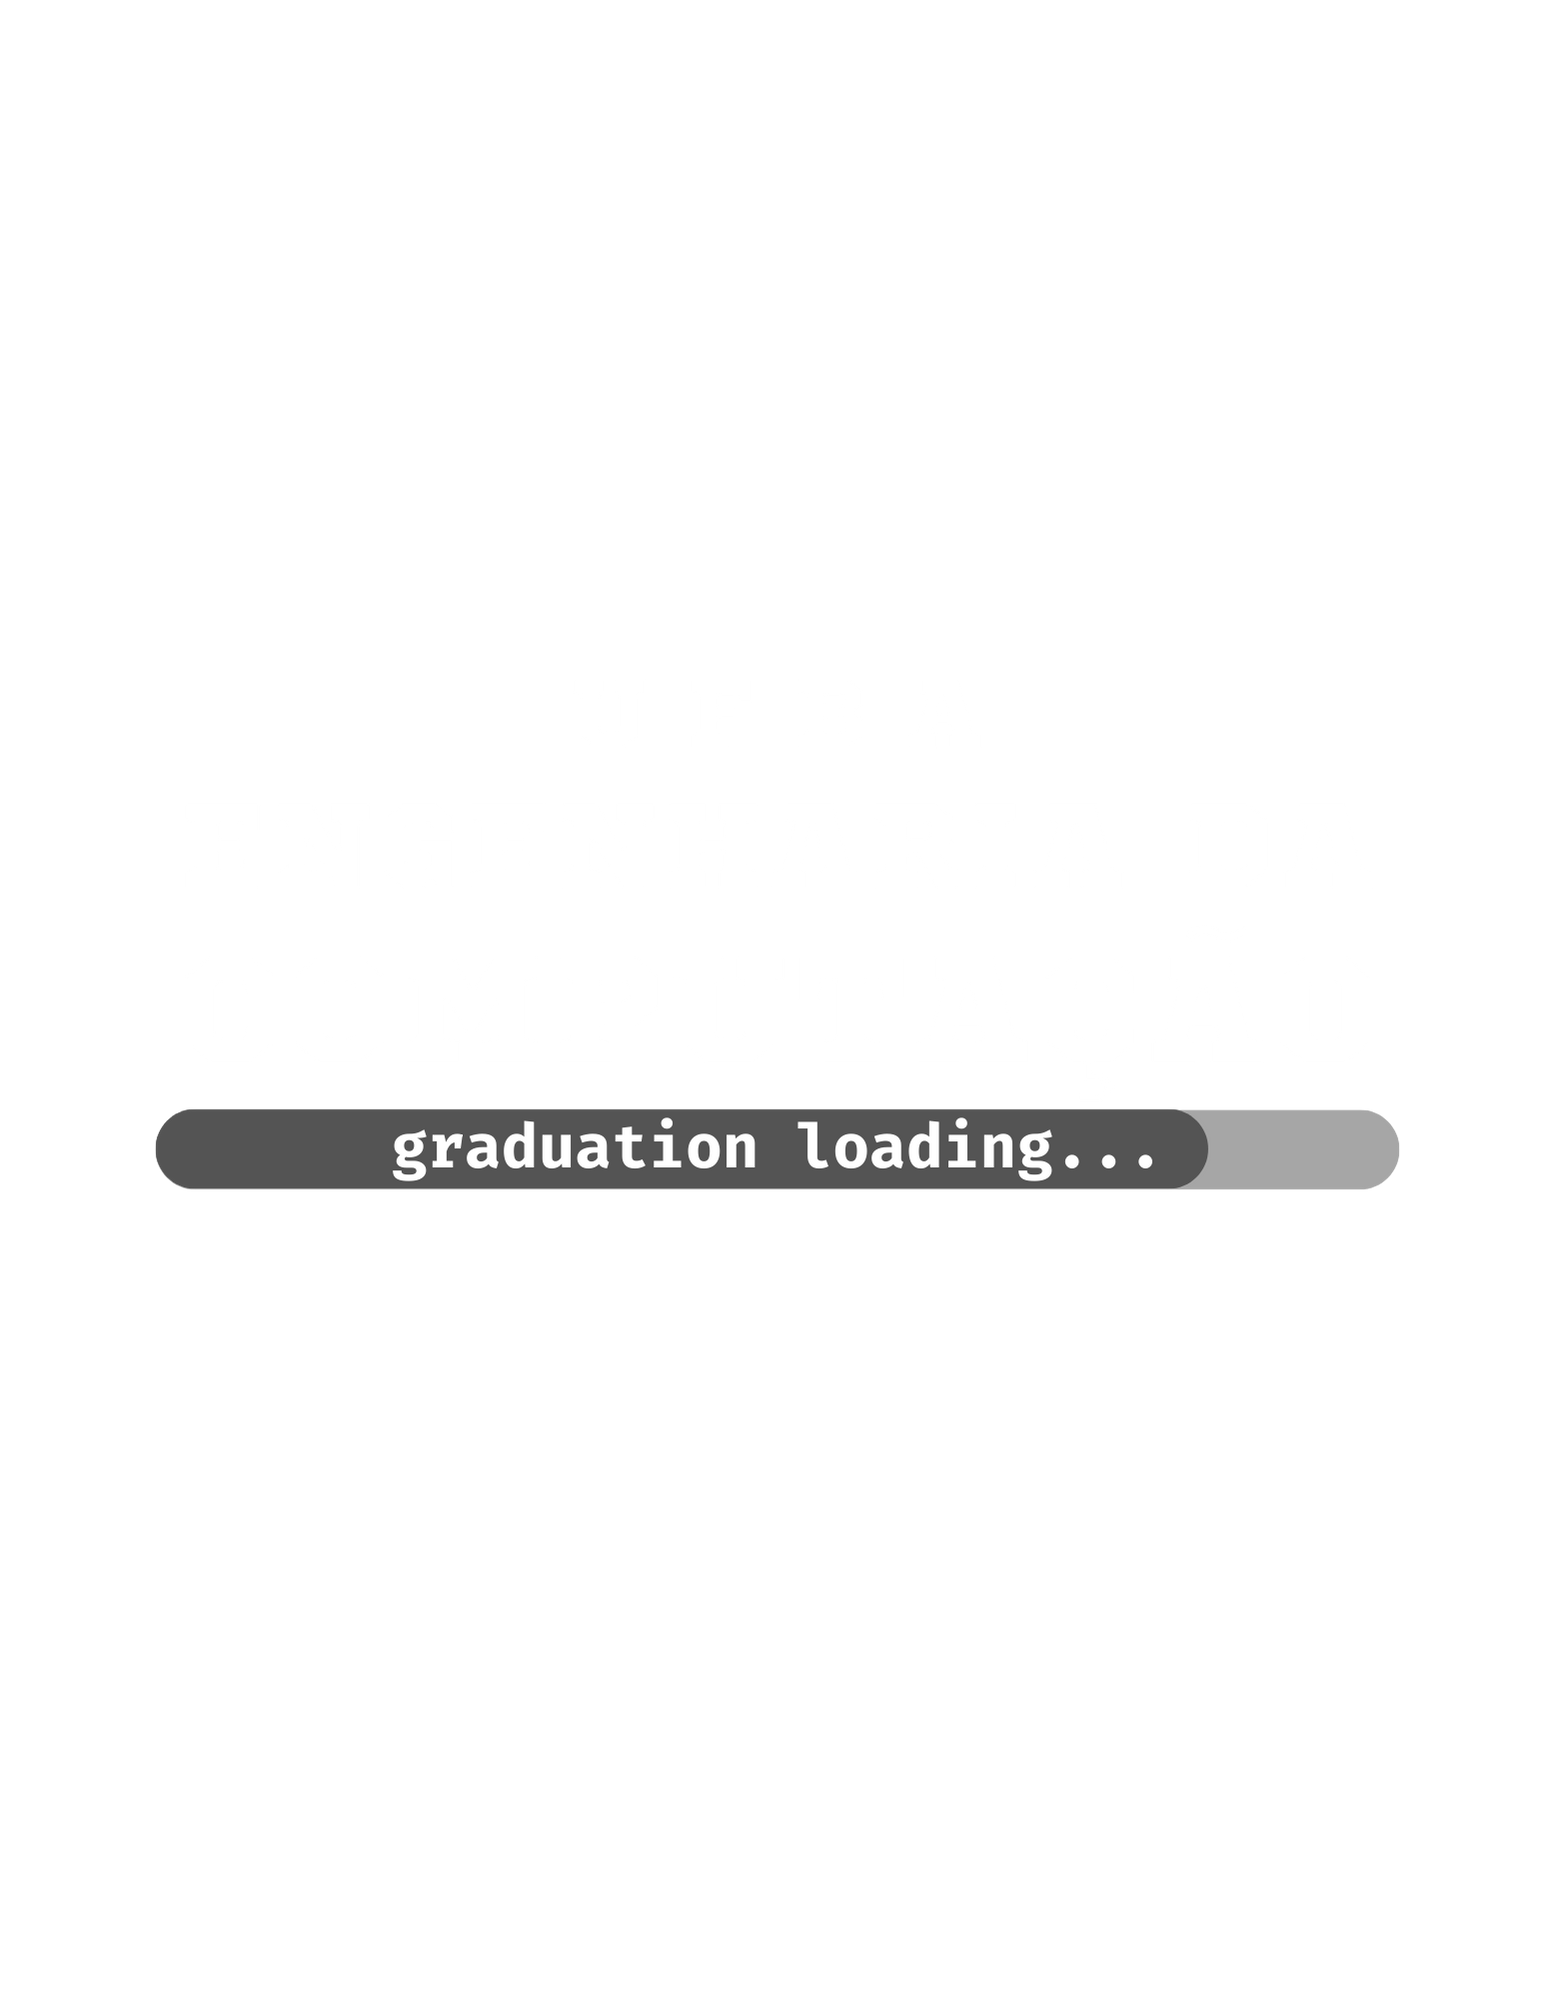
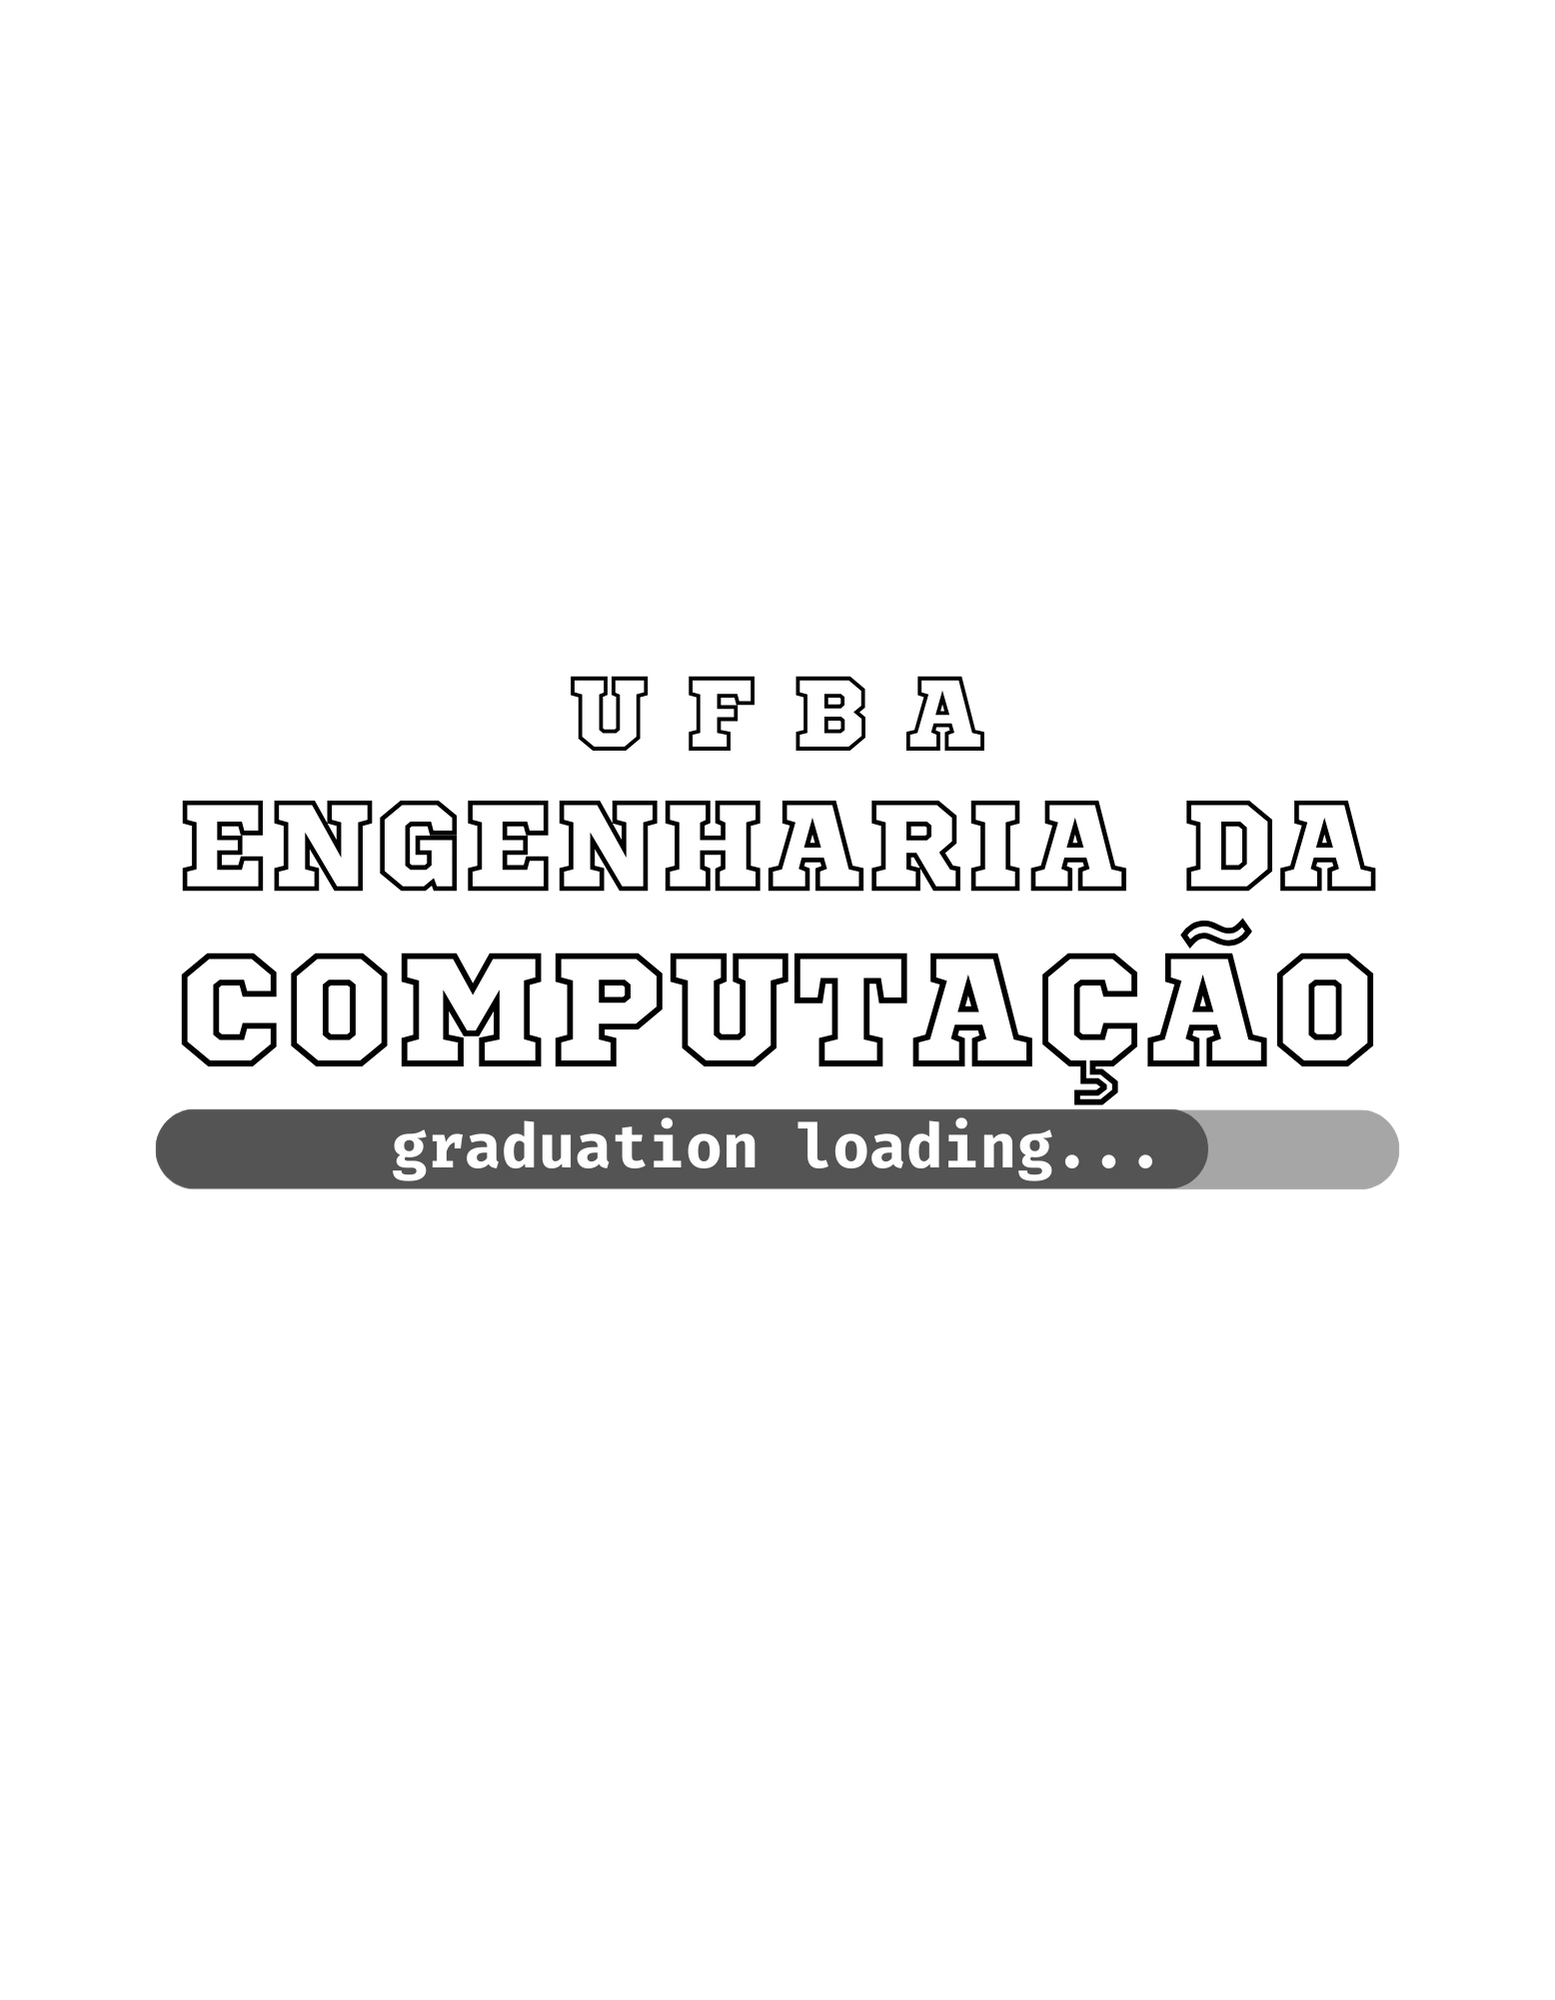
fix mobile and add program art

Changed region(s): [[0.0926, 0.341, 0.8952, 0.558]]

diff --git a/src/App.tsx b/src/App.tsx
@@ -1,10 +1,10 @@
 import * as ToggleGroup from "@radix-ui/react-toggle-group";
+import clsx from "clsx";
 import { useState } from "react";
 import Select, { SingleValue } from "react-select";
 import { TShirt } from "./components/TShirt";
 import { Item, allArts } from "./utils/allArts";
 import { allColors } from "./utils/allColors";
-import clsx from "clsx";
 
 function App() {
   const [art, setArt] = useState<string | undefined>(undefined);
@@ -15,29 +15,48 @@ function App() {
   }
 
   function handleColorChange(color: string) {
-    if (color)
-      setColor(JSON.parse(color).color);
+    if (color) setColor(JSON.parse(color).color);
   }
 
   return (
-    <div className="bg-slate-950 h-screen flex items-center justify-center">
-      <div className="max-w-3xl p-12 flex items-center justify-center">
+    <div className="bg-slate-950 min-h-screen flex items-center justify-center">
+      <div className="max-w-3xl max-sm:w-full sm:p-12 flex items-center justify-center">
         <div className="bg-slate-900/50 w-full flex flex-col gap-4 items-center justify-center rounded-md p-12">
-          
-          <div className={clsx("bg-slate-900 w-full text-slate-400 rounded-md overflow-hidden", {
-            "h-96 flex items-center justify-center text-center": !art || !color,
-          })}>
-            {art && color ? <TShirt color={color} artUrl={art} /> : <p>Selecione para <br /> pré-visualização...</p>}
+          <div
+            className={clsx(
+              "bg-slate-900 w-full text-slate-400 rounded-md overflow-hidden",
+              {
+                "h-96 flex items-center justify-center text-center":
+                  !art || !color,
+              }
+            )}
+          >
+            {art && color ? (
+              <TShirt color={color} artUrl={art} />
+            ) : (
+              <p className="px-6">Selecione para pré-visualização...</p>
+            )}
           </div>
-          <Select onChange={handleSelected} options={allArts} className="w-full" />
-          <ToggleGroup.Root type="single" className="grid grid-flow-row grid-cols-2 gap-3 w-full" onValueChange={handleColorChange}>
+          <Select
+            onChange={handleSelected}
+            options={allArts}
+            className="w-full"
+          />
+          <ToggleGroup.Root
+            type="single"
+            className="grid grid-flow-row grid-cols-2 gap-2 w-full rounded-md"
+            onValueChange={handleColorChange}
+          >
             {allColors.map((color) => (
-              <ToggleGroup.Item value={JSON.stringify(color)} key={color.value} className="data-[state=on]:bg-rose-600 w-full flex items-center gap-4 bg-slate-900 rounded-md p-2">
-                <div
-                  className="w-8 h-8 rounded-full bg-white border"
-                  style={{ backgroundColor: color.color }}
-                />
-                <p className="text-white">{color.label}</p>
+              <ToggleGroup.Item
+                value={JSON.stringify(color)}
+                key={color.color}
+                className="group h-12 data-[state=on]:bg-rose-600 w-full flex items-center justify-center text-white gap-2 bg-slate-900 rounded-md py-2 px-4 relative border"
+                style={{ backgroundColor: color.color }}
+              >
+                <div className="absolute w-full h-full bg-black/50 rounded-md hidden group-data-[state=on]:flex items-center justify-center">
+                  <p>{color.label}</p>
+                </div>
               </ToggleGroup.Item>
             ))}
           </ToggleGroup.Root>

diff --git a/src/utils/allColors.ts b/src/utils/allColors.ts
@@ -1,37 +1,42 @@
 export const allColors = [
   {
+    label: "Preta",
+    value: "black",
+    color: "#0E0E0E",
+  },
+  {
     label: "Azul",
     value: "blue",
-    color: "#001b42",
+    color: "#010230",
   },
   {
     label: "Azul claro",
     value: "light-blue",
-    color: "#6da5b8",
-  },
-  {
-    label: "Cinza",
-    value: "gray",
-    color: "#c1c1c1",
-  },
-  {
-    label: "Preta",
-    value: "black",
-    color: "#0a0000",
-  },
-  {
-    label: "Rosa",
-    value: "pink",
-    color: "#ff9ebe",
+    color: "#70A4BA",
   },
   {
     label: "Vinho",
     value: "wine",
-    color: "#951825",
+    color: "#5D0D16",
   },
   {
     label: "Vermelha",
     value: "red",
-    color: "#8c000a",
+    color: "#890101",
+  },
+  {
+    label: "Rosa claro",
+    value: "light-pink",
+    color: "#FEE0EA",
+  },
+  {
+    label: "Cinza",
+    value: "gray",
+    color: "#A5A5AF",
+  },
+  {
+    label: "Verde",
+    value: "green",
+    color: "#037F4D",
   },
 ];

diff --git a/src/components/TShirt.tsx b/src/components/TShirt.tsx
@@ -3,7 +3,7 @@ import mockup from "../assets/mockup-tshirt.png";
 import { HTMLAttributes } from "react";
 
 const tshirt = tv({
-  base: "cursor-pointer w-96 relative flex items-center justify-center rounded-md overflow-hidden hover:scale-150 hover:translate-y-10 transition-transform",
+  base: "cursor-pointer w-full relative flex items-center justify-center rounded-md overflow-hidden hover:scale-150 hover:translate-y-10 transition-transform",
 });
 
 type TShirtProps = HTMLAttributes<HTMLDivElement> & VariantProps<typeof tshirt> & {

diff --git a/src/utils/allArts.ts b/src/utils/allArts.ts
@@ -2,6 +2,7 @@ import loading from "../assets/arts/1.png";
 import code from "../assets/arts/2.png";
 import classic from "../assets/arts/3.png";
 import fun from "../assets/arts/4.png";
+import program from "../assets/arts/5.png";
 
 export interface Item {
     label: string;
@@ -29,5 +30,10 @@ export const allArts = [
         label: "Loading",
         value: "loading",
         url: loading,
+    },
+    {
+        label: "Program",
+        value: "program",
+        url: program,
     },
 ];
